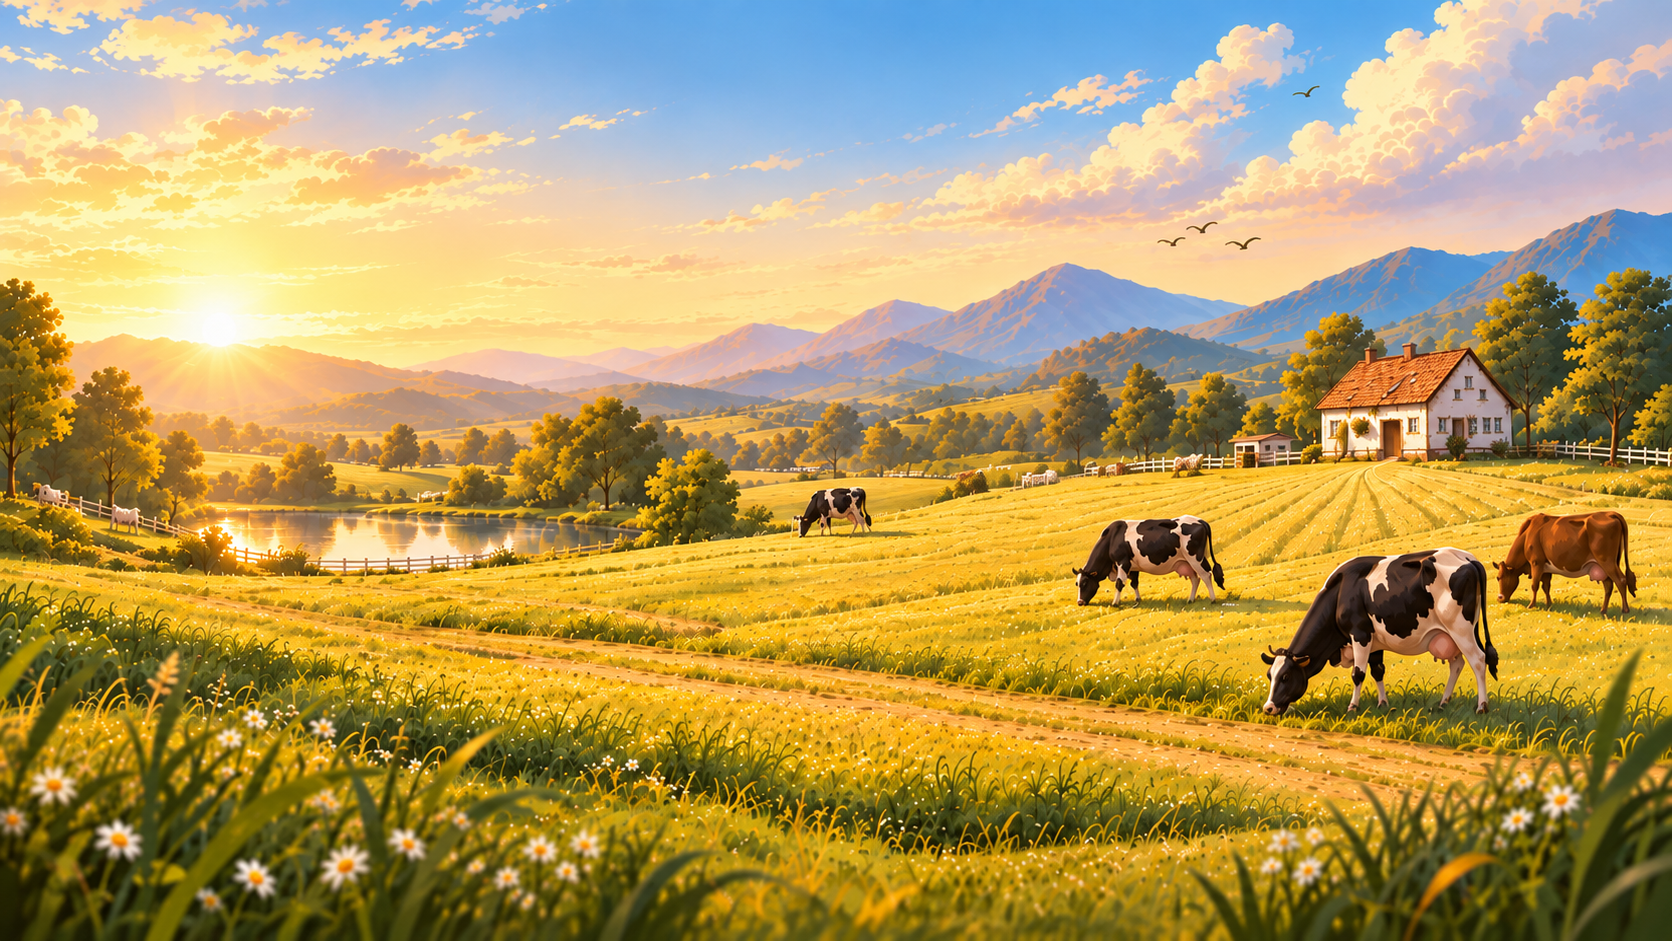
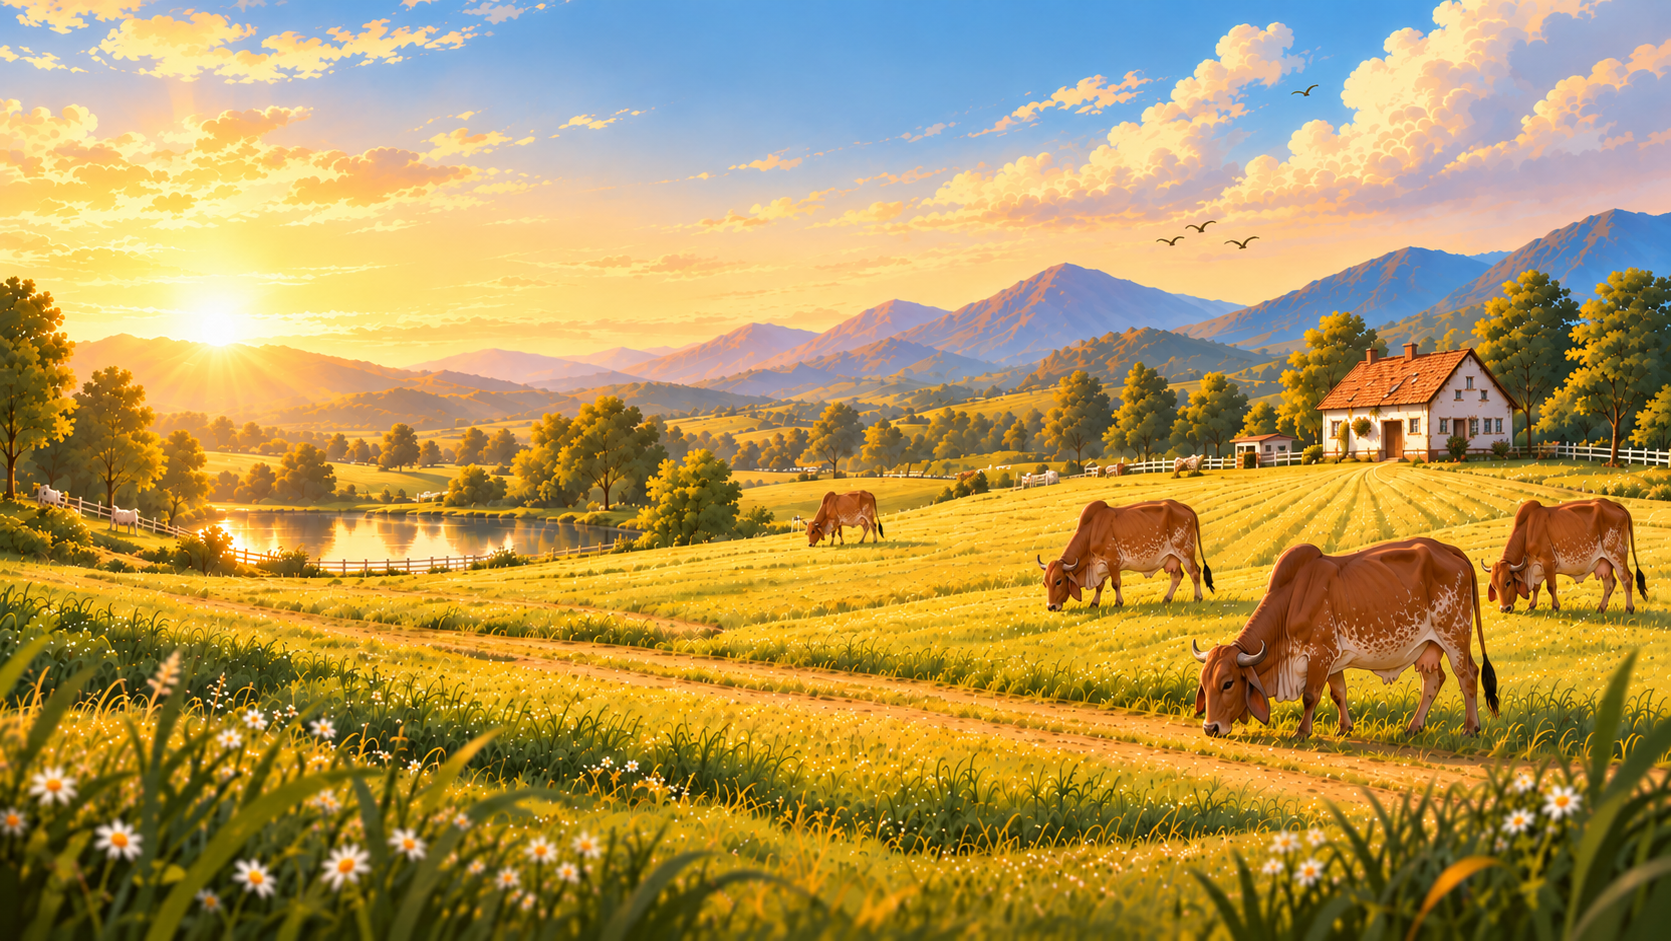
feat: add AuthView component and background assets for authentication flow

diff --git a/src/features/auth/components/AuthView.tsx b/src/features/auth/components/AuthView.tsx
@@ -41,7 +41,7 @@ export function AuthView() {
     <div
       className="min-h-screen w-full relative flex flex-col justify-between bg-[#F8F3EA] bg-cover bg-center bg-no-repeat selection:bg-[#5C1B13]/15 selection:text-[#5C1B13] overflow-x-hidden"
       style={{
-        backgroundImage: "url('/loginbg.jpeg')",
+        backgroundImage: "url('/loginbg.png')",
       }}
     >
       {/* ─── TOP NAVIGATION BAR ─── */}
